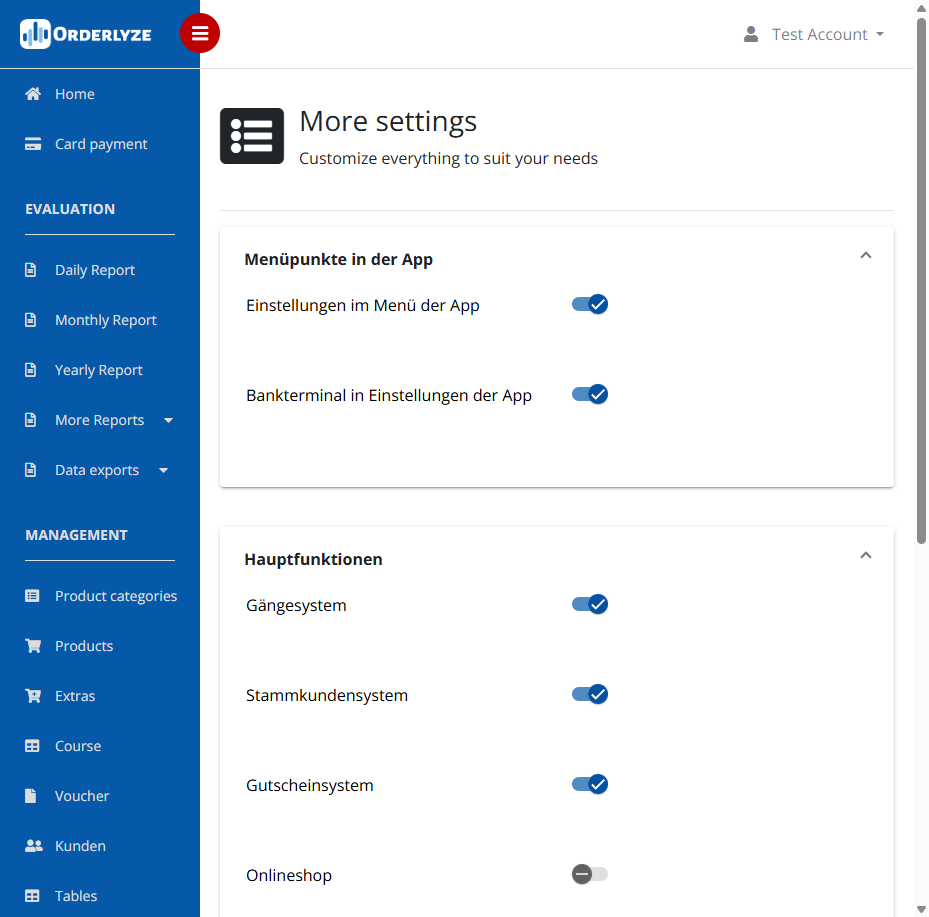
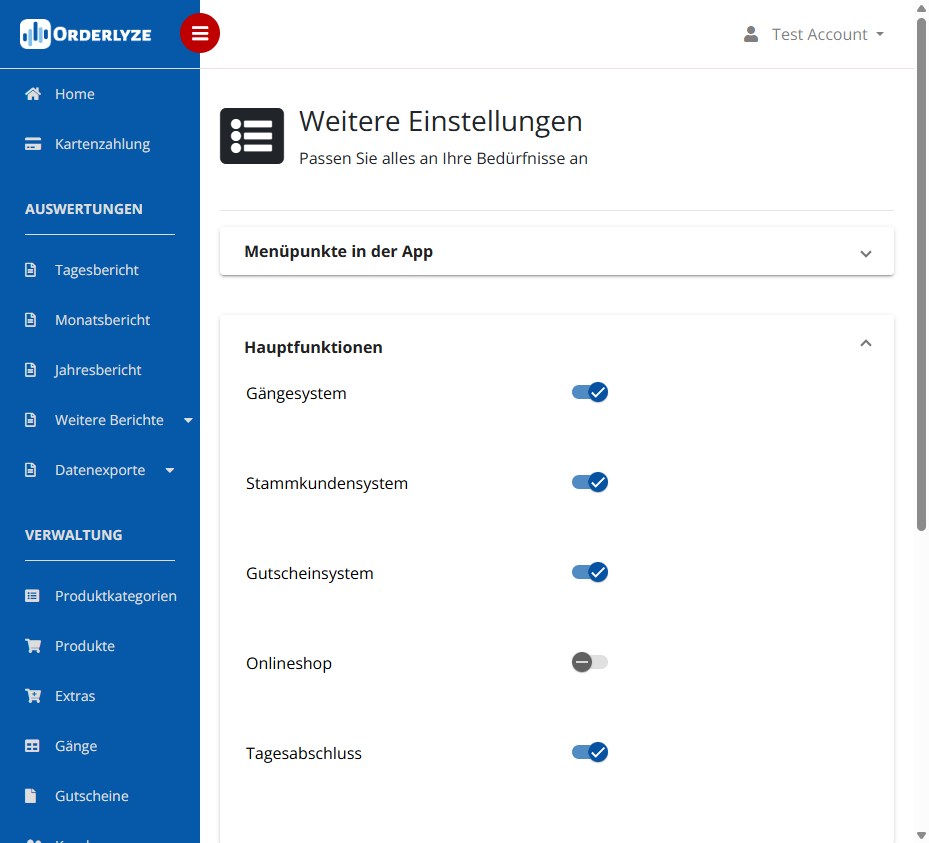
Küchenmonitor als Coming Soon markieren und Einstellungen-Screenshots aktualisieren
- Küchenmonitor mit Warning versehen (Feature noch in Entwicklung)
- 5 Screenshots für Weitere Einstellungen auf Deutsch aktualisiert:
  - einstellungen-uebersicht.png
  - einstellungen-hauptfunktionen.png
  - einstellungen-benutzer.png
  - einstellungen-kueche.png
  - einstellungen-kueche-details.png

diff --git a/docs/betrieb/kueche/index.md b/docs/betrieb/kueche/index.md
@@ -5,6 +5,8 @@ description: Bestellungen in der Küche verwalten
 type: reference
 platform: web
 sidebar_position: 1
+sidebar_custom_props:
+  badge: "Coming Soon"
 searchTerms:
   - küche
   - kitchen
@@ -14,6 +16,10 @@ searchTerms:
 ---
 
 # Küchenmonitor
+
+:::warning In Entwicklung
+Dieses Feature befindet sich noch in Entwicklung und ist noch nicht für den produktiven Einsatz freigegeben.
+:::
 
 **Navigation:** Küche
 
